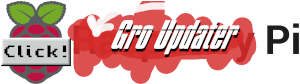
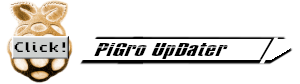
:feelsgood: 2.5 Update
Code Fixes, *NEW* Updater

diff --git a/updater.py b/updater.py
@@ -12,11 +12,11 @@ from tkinter import messagebox
 import webbrowser
 
 updater = Tk()
-updater.title("PiGro Updater")
+updater.title("PiGro UpDater")
 icon = tk.PhotoImage(file="/home/pi/PiGro-Aid-/PiGroLogoslim.png")
 updater.tk.call('wm', 'iconphoto', updater._w, icon)
 updater.geometry("900x310")
-
+updater['background']='grey39'
 
 def send_entry_to_terminal(*args):
     """*args needed since callback may be called from no arg (button)
@@ -54,22 +54,27 @@ Sources List has been saved\n\
 "
     messagebox.showinfo(message=m_text, title = "Infos")
         
+#Notebook Style
+noteStyler = ttk.Style()
+noteStyler.configure("TNotebook", background="grey39", borderwidth=0)
+noteStyler.configure("TNotebook.Tab", background="grey39")
+noteStyler.configure("TFrame", background="grey39")
 
 
 
 
-
-tab_control = ttk.Notebook(updater)
-
-tab1 = ttk.Frame(tab_control)
-
-tab2 = ttk.Frame(tab_control)
-lbl2 = Label(tab2, text= "This updater is inspired by the Ub**tu software updater. No ads here. xDDD")
-lbl2.grid(column=0, row=0)
-tab_control.add(tab1, text='Update & Settings')
+#Notebook
+tab_control = ttk.Notebook(updater,style='TNotebook')
 
 
-tab_control.add(tab2, text='Info')
+tab1 = ttk.Frame(tab_control, style='TFrame')
+#tab2 = ttk.Frame(tab_control, style='TFrame')
+#lbl2 = Label(tab2, text= "This updater is inspired by the Ub**tu software updater. No ads here. xDDD")
+#lbl2.grid(column=0, row=0)
+tab_control.add(tab1, text='Update & Settings',)
+
+
+#tab_control.add(tab2, text='Info')
 
 
 
@@ -80,10 +85,13 @@ tab_control.pack(expand=1, fill='both')
 termf = Frame(tab1, height=20, width=20)
 wid = termf.winfo_id()
 os.system('xterm -into %d -geometry 120x20  &' % wid)
+termf['background']='grey39'
+
 
 i=Image.open('/home/pi/PiGro-Aid-/pigropi.png')
 p=ImageTk.PhotoImage(i)
 l=Label(tab1,image = p)
+l['background']='grey39'
 l.image = p
 
 
@@ -96,21 +104,21 @@ text_file.close()
 
 s_list.pack(anchor='w')
 
-update_button=Button(tab1,text="Update",width=15,anchor='w', command=button_action)
-update_button.place(x=725, y=0,)
+update_button=Button(tab1,text="Update",width=15,anchor='w', command=button_action,background="grey39",foreground="white")
+update_button.place(x=730, y=0,)
 
-upgrade_button=Button(tab1,text="Upgrade",width=15,anchor='w', command=button_action2)
-upgrade_button.place(x=725, y=30)
+upgrade_button=Button(tab1,text="Upgrade",width=15,anchor='w', command=button_action2,background="grey39",foreground="white")
+upgrade_button.place(x=730, y=30)
 
-auth_button=Button(tab1,text="Allow Sources",width=15,anchor='w', command=button_action17)
-auth_button.place(x=725, y=60)
+auth_button=Button(tab1,text="Allow Sources",width=15,anchor='w', command=button_action17,background="grey39",foreground="white")
+auth_button.place(x=730, y=60)
 
-rm_button=Button(tab1,text="Remove Config Files",width=15,anchor='w', command=button_action16)
-rm_button.place(x=725, y=90)
+rm_button=Button(tab1,text="Remove Config Files",width=15,anchor='w', command=button_action16,background="grey39",foreground="white")
+rm_button.place(x=730, y=90)
 
 
-sv_button=Button(tab1,text="Save Source List",width=15,anchor='w', command=save_list)
-sv_button.place(x=725, y=145)
+sv_button=Button(tab1,text="Save Source List",width=15,anchor='w', command=save_list,background="grey39",foreground="white")
+sv_button.place(x=730, y=145)
 
 termf.pack(fill=BOTH, expand=NO)
 l.pack()
